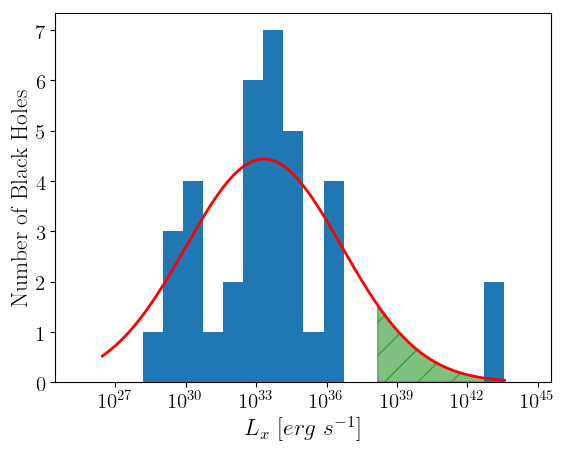
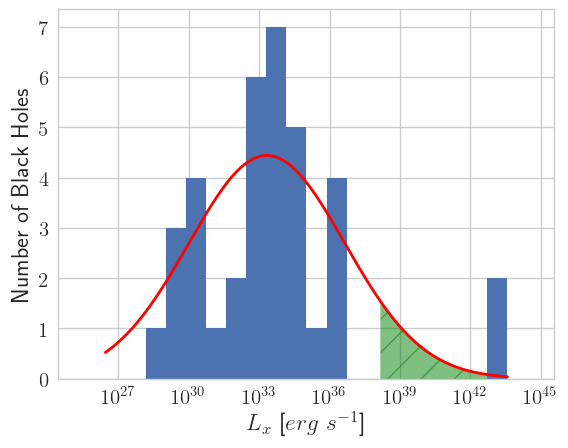
Significant rewrite of xray luminosity section.  Finished edits suggested by contributors.  All plots redone with seaborn style.

diff --git a/paper.tex b/paper.tex
@@ -36,6 +36,7 @@
 % Please keep new commands to a minimum, and use \newcommand not \def to avoid
 % overwriting existing commands. Example:
 %\newcommand{\pcm}{\,cm$^{-2}$}	% per cm-squared
+\newcommand{\expnumber}[2]{{#1}\mathrm{e}{#2}}
 \newcommand{\kms}{\,km\,s$^{-1}$} % kilometres per second
 \newcommand{\bibtex}{\textsc{Bib}\!\TeX} % bibtex. Not quite the correct typesetting, but close enough
 \defcitealias{2011ApJ...741...99C}{Cen+11}
@@ -110,7 +111,7 @@ But how common are encounters of massive black holes?  For galaxies, we know tha
 
 However, we do not often see SMBH binaries at the centers of massive ellipticals (but see \citealt{2016MNRAS.463.2145C}).  So, what does happen?  \cite{2018MNRAS.473.3410R} indicate that dynamical interactions among multiple orbiting black holes, which will eject a non-negligible fraction of the mass, may solve this problem.  The present paper also addresses this purported dynamical solution, focusing attention on the large fraction of lower-mass black holes that remain to be detected as they orbit in massive galaxies.  We argue that, as a result of few-body interactions among the resident and infalling black holes, some are ejected, some remain in extended orbits, and some (the few most massive ones) do in fact merge. The merger rates we find do not exceed the PTA limits, and some of the orbiting BHs that our simulations predict to exist may actually be detectable via their ability to accrete gas and emit radiation.
 
-For this study, we look at the merger history of 11 exemplary galaxies across the galaxy mass spectrum extracted from a cosmological simulation of hierarchical structure formation. We investigate how, after merging with incoming galaxies, SMBHs sink into the cores of the hosts and interact with the resident black hole. We show that gravitational interactions of multiple SMBHs are most probable in high-mass galaxies with total mass $10^{12} M_{\sun} < M < 3\times10^{13} M_{\sun}$. Galaxies with lower masses have too few mergers with SMBH hosting galaxies. Galaxies with higher masses are more extended, making dynamical friction processes less efficient and hence failing to drive SMBHs into the host galaxy core.
+For this study, we look at the merger history of 11 exemplary galaxies across the galaxy mass spectrum extracted from a cosmological simulation of hierarchical structure formation. We investigate how, after merging with incoming galaxies, SMBHs sink into the cores of the hosts and interact with the resident black hole. We show that gravitational interactions of multiple SMBHs are most probable in high-mass galaxies with total mass $10^{12} M_{\sun} < M < 3\times10^{13} M_{\sun}$. Galaxies with lower masses have too few mergers with SMBH hosting galaxies. Galaxies with higher masses are more extended, making dynamical friction processes less efficient and hence failing to drive SMBHs into the host galaxy core.  \citep{2012MNRAS.422.1306K} and \citep{2018MNRAS.473.3410R} performed similar N-body simulations of merging galaxies and black holes, although their haloes were from dark matter-only merger trees from the Millennium Simulation \citet{2005Natur.435..629S}, which have very different merger histories compared to the hydrodynamical simulations in this study.  Additionally, most of the halo masses in the \citep{2012MNRAS.422.1306K} simulations were of mass $M_{halo} > 10^{14} M_{\odot}$.
 
 This paper is organized as follows: in Section\,\ref{sec:methods} we describe the cosmological simulations from which we use the merger history to set up our idealized numerical simulations. We present the few-body integration code, \textsc{AR-Chain} that we used for our simulations of SMBH dynamics, and the modifications we made to this code in order to deal with a host galaxy's gravitational potential. In Section\,\ref{sec:results}, we show the results of our 11 exemplary simulations of galaxies growing with time and acquiring new SMBHs. We analyze how the SMBHs spiral into the core of their new host galaxies due to dynamical friction, and how interactions with the host black hole and other orbiting BHs leads to near-ejections or mergers. We then estimate the X-ray luminosities expected of the orbiting black holes.  The final Section\,\ref{sec:conclusions} contains a discussion of the results and our conclusions.
 
@@ -306,7 +307,7 @@ Figure \ref{fig:mvr} is a realization of the final radii of the remaining wander
 \begin{figure}
 \begin{center}
 \includegraphics[width=0.5\textwidth]{plots/"Summary Results All Galaxies".png}
-\caption{Histogram of merged, ejected, and orbiting SMBHs at z=0 as a function of BH mass.  Colored arrows along upper x-axis represent median masses of respective sets.}
+\caption{Histogram of merged, ejected, and orbiting SMBHs at z=0 as a function of BH mass.  Ejected black holes span almost the entire mass range, while lower-mass black holes are orbiting and higher mass black holes tended to merge.  Colored arrows along upper x-axis represent median masses of respective sets.  Histogram bars are not stacked.}
 \label{fig:meosmbh}
 \end{center}
 \end{figure}
@@ -330,7 +331,7 @@ Figure \ref{fig:mvr} is a realization of the final radii of the remaining wander
 \begin{figure}
 \begin{center}
 \includegraphics[width=0.5\textwidth]{plots/kicked_stats.png}
-\caption{Histogram of kicked and not-kicked SMBHs at z=0.  Colored arrows along upper x-axis represent median masses of respective sets.}
+\caption{Histogram of kicked and not-kicked SMBHs at z=0.  Colored arrows along upper x-axis represent median masses of respective sets.  Histograms are not stacked.}
 \label{fig:kicked_stats}
 \end{center}
 \end{figure}
@@ -364,74 +365,75 @@ We compute the x-ray luminosity of the hot gas in the galaxies, adapting Equatio
 The integral evaluates to ${\pi}r_c^3/16$.  $m_p$ is the mass of a proton and $\mu$ is the mean molecular weight.  To calculate $\mu$, we use metallicity $Z=2Z_{\odot}=0.0268$, mass fraction of Helium $Y=Y_{\odot}=0.2485$, and mass fraction of Hydrogen $X=0.7247$.  This results in $\mu=0.606$.
 
 \subsection{Black Hole Xray Luminosity}
-\subsubsection{Calculations}
-As a black hole traverses through a host galaxy or other gaseous environment, it accretes 
+\subsubsection{Assumptions and Method Employed}
+Since we model the black holes in this work as point particles for purposes of the simulations, we don't assume any particular structure to them.  Therefore, we adopt the approach and assumptions from \citealt{2018MNRAS.476.1412I} and \citealt{2019MNRAS.486.5377I} in estimating the x-ray luminosities of the remaining black holes left wandering in our subject galaxies.  Their approach assumes rotating accretion flows in a very low-density environment.  Shear viscous forces transport angular momentum outwards, resulting in an accretion disc that forms at the bottom of the distribution.  However, due to the low density of the gas, it does not cool, and convection limits the net accretion, and subsequent radiation luminosity, of the black hole.
 
-The x-ray temperature versus central velocity dispersion relation from Table 2 of  \citet{2018ApJ...857...32B} was fitted according to:
+\subsubsection{Gas Environment Surrounding Black Holes}
+In order to model the surrounding environment of the wandering black holes, we used the data and scaling relations from \citet{2018ApJ...857...32B}, which is based on Chandra X-ray Observatory observations of 94 early-type, gas poor galaxies of several morphological types (elliptical, lenticular, SB, BCGs, and cD galaxies).  In particular, we used data from Tables 2 and 3 for temperature in xray ($T_X$) and central gas density ($\rho_0$)) to model the surrounding gas properties.  Central velocity dispersion ($\sigma_c$) was used as the independent variable, as many galactic properties co-evolve with velocity dispersion (REFERENCES TO BACK THIS UP???).  We estimate the central velocity dispersion in this work based on the potential-density profile in  \citet{2015ApJ...806L..28S} that was also used in modeling the potential in the simulations (cf their equation 11):
 \begin{equation}
-    T_x = 10^{2.50*log(\sigma_c) - 6.06} \text{  keV}.
+    \sigma^2 = \frac{6GM_{tot}(\frac{\pi^2}{8}-1)}{{\pi}r_h},
 \end{equation}
-Central gas density, ${\rho}_0$ was also fitted from Table 3 of \citet{2018ApJ...857...32B} according to:
-\begin{equation}
-    \rho_0 = 10^{0.6*log(\sigma_c) - 25} \text{  g cm}^{-3}.
-\end{equation}
-The core radius of the gas model, ${r_c}$ is:
-\begin{equation}
-    r_c = 10^{2.1*log(\sigma) - 5.3} \text{  kpc}.
-\end{equation}
-Local gas density ${\rho}$ is obtained from the isothermal beta model (\citet{1962AJ.....67..471K}, \citet{1976A&A....49..137C}, \citet{1978A&A....70..677C}):
+where G is the gravitational constant, $M_{tot}$ is the total galaxy mass (stars + DM), and $r_h$ is the outer halo radius as defined in the Stone-Ostriker profile (cf. equation 1).
+
+Figures \ref{fig:rho0_vs_sigma} and \ref{fig:Tx_vs_sigma} present the data from \citet{2018ApJ...857...32B}, along with the simple linear fits (in log-log space) and resulting gas properties used for our galaxies (red x's):
+\begin{subequations} \label{eq:gas_properties}
+\begin{eqnarray}
+    \rho_0 = 10^{0.6*log\left(\frac{\sigma_c}{g\ cm^{-3}}\right) - 25} \text{  g cm}^{-3},\\
+    T_x = 10^{2.50*log\left(\frac{\sigma_c}{g\ cm^{-3}}\right) - 6.06} \text{  keV}.
+\end{eqnarray}
+\end{subequations}
+
+The dispersion of the data around the fit for $\rho_0$ is at most 1.5-2.0 orders of magnitude.  This leads to a similar variation in the gas density surrounding the black hole, in addition to the ultimate accretion rate of the black hole, due to both having a linear dependence on the central gas density (see Eqns \eqref{beta_model} and \eqref{net_accretion} below).
+
+The dispersion of the xray temperature data around the fit is approximately 1-1.5 orders of magnitude.  The gas sound speed (see Equation \eqref{gas_sound_speed} below) has a $C_s{\sim}T_x^{0.5}$ dependence on temperature.  However, given the dependence of the accretion rate (see Equation \eqref{net_accretion} below) on gas sound speed of $\dot{M}_{acc}{\sim}C_s^3$, the accretion rate is dependent on temperature to the order of $T_x^{3/2}$.  This is another source of variation in our estimate of accretion rate.
+
+\begin{figure}
+\vspace{20pt}%
+\begin{center}
+\includegraphics[width=0.5\textwidth]{plots/"rho_0 vs sigma with errors".png}
+\caption{Central gas density versus central velocity dispersion.  Purple X's represent central gas densities of the galaxies in this study.  Fit in log space is $\rho_0 = 10^{0.6*log\left(\frac{\sigma_c}{g\ cm^{-3}}\right) - 25} \text{  g cm}^{-3}$.}
+\label{fig:rho0_vs_sigma}
+\end{center}
+\end{figure}
+
+\begin{figure}
+\vspace{20pt}%
+\begin{center}
+\includegraphics[width=0.5\textwidth]{plots/"Tx vs sigma with errors".png}
+\caption{X-ray temperature versus central velocity dispersion.  Purple X's represent temperatures of the galaxies in this study.  Fit in log space is $T_x = 10^{2.50*log\left(\frac{\sigma_c}{g\ cm^{-3}}\right) - 6.06} \text{  keV}$.}
+\label{fig:Tx_vs_sigma}
+\end{center}
+\end{figure}
+
+The local gas density ${\rho}$ surrounding the black hole is obtained from a simple isothermal beta model (\citet{1962AJ.....67..471K}, \citet{1976A&A....49..137C}, \citet{1978A&A....70..677C}):
 \begin{equation} \label{beta_model}
-    \rho = \frac{\rho_0}{(1+r^2/r_c^2)^{1.5}} \text{  g cm}^{-3}.
+    \rho = \frac{\rho_0}{(1+r^2/r_c^2)^{1.5}} \text{  g cm}^{-3},
 \end{equation}
+where $\rho_0$ is as defined above, r is the black hole's distance from the center of the galaxy, and $r_c$ is the core radius.
 
-Gas sound speed, $c_s$, was obtained from:
-\begin{equation}
-    C_s = \sqrt{1.67T_x/m_p} \text{  km s}^{-1},
+The sound speed of the gas, $C_s$, is derived from the ideal gas law:
+\begin{equation}\label{gas_sound_speed}
+    C_s = \sqrt{1.67T_x*\expnumber{1.602}{-16}/m_p} \text{  km s}^{-1},
 \end{equation}
-where $m_p$ is the proton mass.
+where $m_p$ is the proton mass in kilograms.  Since $T_x$ is in keV, the factor of $\expnumber{1.602}{-16}$ is added to convert the temperature to Joules.
 
-The net black hole mass accretion rate is approximated by \citet{2018MNRAS.476.1412I} and \citet{2019MNRAS.486.5377I}:
-\begin{equation}
+The resulting net black hole mass accretion rate is approximated by \citet{2018MNRAS.476.1412I} and \citet{2019MNRAS.486.5377I}:
+\begin{equation}\label{net_accretion}
     \dot{M}_{acc} = f\frac{4{\pi}G^2M_\mathrm{BH}^2\rho}{(C_s^2+v^2)^{3/2}} \text{  M}_\odot \text{ Myr}^{-1},
 \end{equation}
-where f is a factor giving the decline in accretion, interior to the BH radius due to convective (i.e., inefficient) accretion, as calculated \citet{2019MNRAS.486.5377I}, cf. eq 13.  Additionally, $M$ is black hole mass, $G$ is the gravitational constant, and $v$ is the black hole velocity.
+where f is a factor giving the decline in accretion, interior to the BH radius due to convective (i.e., inefficient) accretion, as calculated \citet{2019MNRAS.486.5377I}, cf. eq 13.  Additionally, $M_{BH}$ is black hole mass, $G$ is the gravitational constant, and $v$ is the black hole velocity.
 
 Finally, the black hole x-ray luminosity is estimated from:
 \begin{equation}
     L_x = \epsilon_{rx}\dot{M}_{acc}c^2 \text{  erg s}^{-1},
 \end{equation}
-where the x-ray radiative efficiency ${\epsilon}_{rx}=0.01$, and we are assuming for the low-luminosity sources that $L_x{\sim}L_{Bol}$.  For sources having $\dot{M}_B/\dot{M}_{Edd} > 10^{-3}$, we take $L_x=0.1L_{Bol}$.
+where the x-ray radiative efficiency ${\epsilon}_{rx}=0.01$, and we are assuming for the low-luminosity sources that $L_x{\sim}L_{Bol}$.  For sources having $\dot{M}_B/\dot{M}_{Edd} > 10^{-3}$, we take $L_x=0.1L_{Bol}$, due to the higher net accretion onto the black hole as a result of cooling of the accretion disc and hence higher gas density.
 The Eddington limit is defined as:
 \begin{equation}
     L_{edd} = 1.26 \times 10^{38} (M/M_{\odot}) \text{  erg s}^{-1}.
 \end{equation}
 
-%\begin{figure}
-%\begin{center}
-%\includegraphics[width=0.45\%textwidth]{plots/"Final %Luminosities of Orbiting %BHs".png}
-%\caption{Luminosities of %Orbiting BHs at z=0}
-%\label{fig:loobhs}
-%\end{center}
-%\end{figure}
-
-\begin{figure}
-\begin{center}
-\includegraphics[width=0.5\textwidth]{plots/"luminosities_final".png}
-\caption{Luminosity of orbiting BHs at z=0 as per Inayoshi (2019).}
-\label{fig:loobhs}
-\end{center}
-\end{figure}
-
-\begin{figure}
-\begin{center}
-\includegraphics[width=0.5\textwidth]{plots/"Final Luminosities using Kohei factor".png}
-\caption{Xray Luminosity Distribution of Orbiting BHs at z=0.  Green region under curve represents approximate range of detectable orbiting black holes.}
-\label{fig:ldobhs}
-\end{center}
-\end{figure}
-
-
-\subsection{Central Black Hole Influence}
+\subsubsection{Central Black Hole Influence}
 Within the influence radius of the central black hole, which is defined as the radius at which the total mass of the galaxy within that radius (stars + dark matter) equals the mass of the central black hole, the gas density is much higher than otherwise, and equation \eqref{beta_model} cannot be used in the region where the BH Kepler potential dominates.  Starting with the equation for hydrostatic equilibrium, assuming isothermality,
 \begin{equation}
     C_{s}^2\frac{dln\rho}{dr}= -\frac{GM(r)}{r^2},
@@ -442,20 +444,41 @@ we can integrate with respect to r, leading to
 \end{equation}
 where $\rho$ is the gas density at the location of the wandering black hole, $\rho_1$ is the density at the radius where the central black hole mass equals the galaxy mass, $r$ is the distance of the wandering black hole from the center, and $r_1$ is the radius where the central black hole mass equals the galaxy mass.
 
-Figure \ref{fig:wui} shows the difference in luminosity when taking into account the influence of the central black hole for the wandering black holes that were within the influence radius.  In all cases, the final luminosity is higher than the original luminosity.
+Figure \ref{fig:wui} shows the difference in luminosity when taking into account the influence of the central black hole for the 17 wandering black holes that were within the influence radius.  In all cases, the final luminosity is higher than the original luminosity.
 \begin{figure}
 \begin{center}
 \includegraphics[width=0.5\textwidth]{plots/"Comparison of L_x versus radius with and without BH Influence".png}
-\caption{Difference in x-ray luminosity of wandering black holes within the influence radius of the central black hole.  Red dots are the originally calculated luminosity, not taking the CBH influence into account.  Green dots are the final luminosities, taking the central BH influence into account.}
+\caption{Difference in x-ray luminosity of wandering black holes within the influence radius of the central black hole.  For each vertical line, red (lower) dots are the originally calculated luminosity, not taking the CBH influence into account.  Green (upper) dots are the final luminosities, taking the central BH influence into account.}
 \label{fig:wui}
 \end{center}
 \end{figure}
+
+\subsubsection{Final X-ray Luminosities of Wandering Black Holes, and Expected Detection Spectra}
+Figure \ref{fig:loobhs} is an approximation of Figure 12 from \cite{2019MNRAS.486.5377I}, along with the final $L_{Bol}/L_{Edd}$ ratio of the wandering black holes from this study, although extended below $10^{-6}$ $\dot{M}_{B}/\dot{M}_{Edd}$ for the very low accretion-rate sources.  Indeed, such low luminosity sources are common, with some estimates of $L_{Bol}/L_{Edd}$ as low as $10^{-10}$ ( e.g., \citealt{2003ApJ...598..301Y}, \citealt{2004ApJ...613..322Q}, \citealt{2008ARA&A..46..475H}, \citealt{2009ApJ...699..626H}, \citealt{2018MNRAS.476.1412I}).  ANY REFERENCES TO SUPPORT HIGHER MdotB/MdotEdd and LBOL/LEDD???  NOT SURE WHAT ELSE TO ADD HERE REGARDING POTENTIAL FOR DETECTION.
+\begin{figure}
+\begin{center}
+\includegraphics[width=0.5\textwidth]{plots/"luminosities_final".png}
+\caption{Approximation of Figure 12 from \citealt{2019MNRAS.486.5377I}. Black "X"s represent black holes in this study.}
+\label{fig:loobhs}
+\end{center}
+\end{figure}
+
+Figure \ref{fig:ldobhs} represents a histogram of the final x-ray luminosities of the black holes, overlaid by a lognormal distribution.  
+\begin{figure}
+\begin{center}
+\includegraphics[width=0.5\textwidth]{plots/"Final Luminosities using Kohei factor".png}
+\caption{Xray Luminosity Distribution of Orbiting BHs at z=0.  Green region under curve represents approximate range of detectable orbiting black holes.}
+\label{fig:ldobhs}
+\end{center}
+\end{figure}
+
+The orbiting black holes should be detectable via their anomalous soft x-ray spectra.  Sgr A*, the black hole at the center of the Milky Way Galaxy, has been observed to fit a power law spectrum with photon index $\Gamma\sim2.7^{+1.3}_{-1.9}$ \citet{2003ApJ...591..891B}.  Conversely low-mass x-ray binaries (LMXRB) have been fit to a power law spectrum with $\Gamma\sim1.5-2.0$ (\citet{2018Natur.556...70H}.
 
 \section{Conclusions}\label{sec:conclusions}
 We performed N-body simulations on 11 galaxies ranging in mass between $10^{12}$ M$_{\sun}$ < M < 3$\times$ $10^{13}$ M$_{\sun}$, from 4 $\gid$ z $\gid$ 0.  A total of 86 orbiting black holes were followed in our simulations, resulting in 42$\%$ mergers with their host galaxy's resident black hole, while another 43$\%$ remained in orbit at $z=0$.  Those remaining orbiting black holes had x-ray luminosities in the range of $10^{25}-10^{43}$ $erg\ s^{-1}$.  The median luminosity of $10^{32} erg\ s^{-1}$ would be undetectable with present instruments, although the top $5\%$ most luminous from this set could be detectable.
 
 \section{Acknowledgements}
-The authors would like to thank Andrea Kulier and Claire Lackner for providing merger tree data. AHWK acknowledges support by NASA through Hubble Fellowship grant HST-HF-51323.01-A awarded by the Space Telescope Science Institute, which is operated by the Association of Universities for Research in Astronomy, Inc., for NASA, under contract NAS 5-26555.
+The authors would like to thank Andrea Kulier and Claire Lackner for providing merger tree data. We also thank Renyue Cen, Pieter van Dokkum, Charles Hailey, Zoltan Haiman, Kohei Inayoshi, Sean McWilliams, and Taeho Ryu for useful discussions and insights.  AHWK acknowledges support by NASA through Hubble Fellowship grant HST-HF-51323.01-A awarded by the Space Telescope Science Institute, which is operated by the Association of Universities for Research in Astronomy, Inc., for NASA, under contract NAS 5-26555.
 
 %%%%%%%%%%%%%%%%%%%%%%%%%%%%%%%%%%%%%%%%%%%%%%%%%%
 
